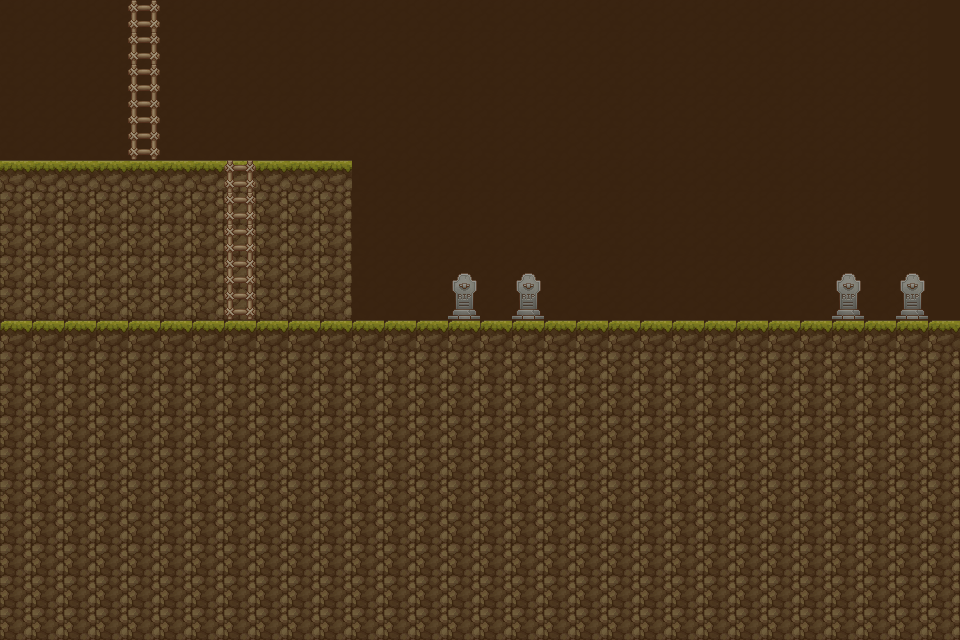
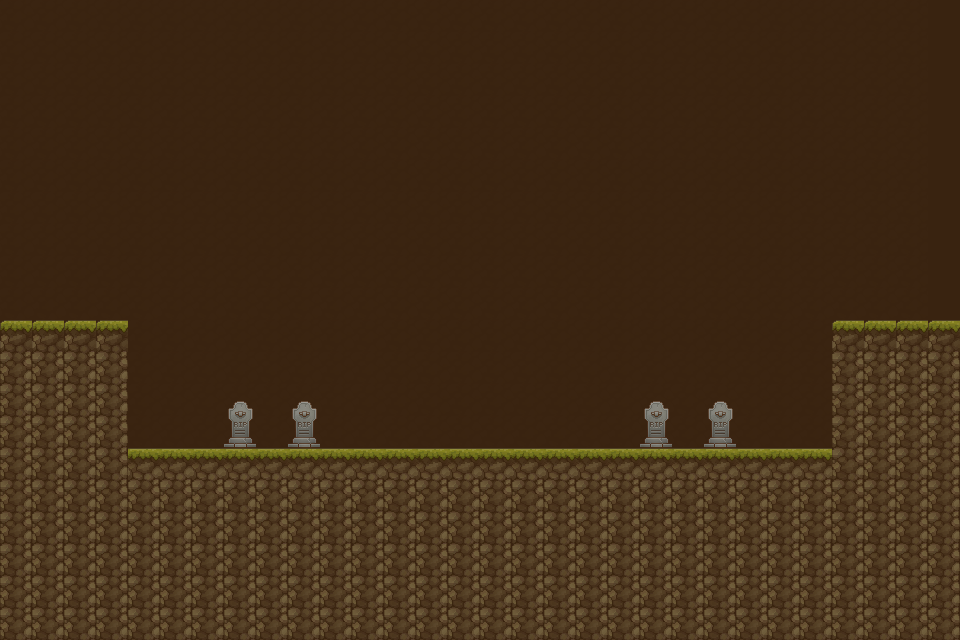
- Minor map design changes

Changed region(s): [[0.0, 0.0, 0.875, 0.7188], [0.9375, 0.4062, 0.9688, 0.5], [0.875, 0.4062, 0.9062, 0.5]]

diff --git a/src/CollisionData.js b/src/CollisionData.js
@@ -8,39 +8,39 @@ const lvl1StartingMapCollisions = [0, 0, 0, 0, 0, 0, 0, 0, 0, 0, 0, 0, 0, 0, 0, 
     0, 0, 0, 0, 0, 0, 0, 0, 0, 0, 0, 0, 0, 0, 0, 0, 0, 0, 0, 0, 0, 0, 0, 0, 0, 0, 0, 0, 0, 0,
     0, 0, 0, 0, 0, 0, 0, 0, 0, 0, 0, 0, 0, 0, 0, 0, 0, 0, 0, 0, 0, 0, 0, 0, 0, 0, 0, 0, 0, 0,
     0, 0, 0, 0, 0, 0, 0, 0, 0, 0, 0, 0, 0, 0, 0, 0, 0, 0, 0, 0, 0, 0, 0, 0, 0, 0, 0, 0, 0, 0,
-    0, 0, 0, 0, 0, 0, 0, 0, 0, 0, 0, 0, 0, 0, 0, 0, 0, 0, 0, 0, 0, 1401, 1401, 1401, 1401, 1401, 0, 1401, 1401, 0,
+    0, 0, 0, 0, 0, 0, 0, 0, 0, 0, 0, 0, 0, 0, 0, 0, 0, 0, 0, 0, 0, 1401, 1401, 1401, 1401, 1401, 1401, 1401, 1401, 0,
     0, 0, 0, 0, 0, 0, 0, 0, 0, 0, 0, 0, 0, 0, 0, 0, 0, 0, 0, 0, 0, 1401, 0, 0, 0, 0, 0, 0, 0, 0,
     0, 0, 0, 0, 0, 0, 0, 0, 0, 0, 0, 0, 0, 0, 0, 0, 0, 0, 0, 0, 0, 1401, 0, 0, 0, 0, 0, 0, 0, 0,
     0, 0, 0, 0, 0, 0, 0, 0, 0, 0, 0, 0, 0, 0, 0, 0, 0, 0, 0, 0, 0, 1401, 0, 0, 0, 0, 0, 0, 0, 0,
     0, 0, 0, 0, 0, 0, 0, 0, 0, 0, 0, 0, 0, 0, 0, 0, 1401, 1401, 1401, 1401, 1401, 1401, 0, 0, 0, 0, 0, 0, 0, 0,
-    0, 0, 1401, 1401, 1401, 1401, 1401, 0, 1401, 0, 0, 0, 0, 0, 0, 0, 0, 0, 0, 0, 0, 0, 0, 0, 0, 0, 0, 0, 0, 0,
+    0, 0, 1401, 1401, 1401, 1401, 1401, 1401, 1401, 0, 0, 0, 0, 0, 0, 0, 0, 0, 0, 0, 0, 0, 0, 0, 0, 0, 0, 0, 0, 0,
     0, 0, 0, 0, 0, 0, 0, 0, 0, 0, 0, 0, 0, 0, 0, 0, 0, 0, 0, 0, 0, 0, 0, 0, 0, 0, 0, 0, 0, 0,
     0, 0, 0, 0, 0, 0, 0, 0, 0, 0, 0, 0, 0, 0, 0, 0, 0, 0, 0, 0, 0, 0, 0, 0, 0, 0, 0, 0, 0, 0,
     0, 0, 0, 0, 0, 0, 0, 0, 0, 0, 0, 0, 0, 0, 0, 0, 0, 0, 0, 0, 0, 0, 0, 0, 0, 0, 0, 0, 0, 0,
-    1401, 1401, 1401, 1401, 0, 0, 1401, 1401, 1401, 1401, 1401, 1401, 1401, 1401, 1401, 1401, 1401, 1401, 1401, 1401, 1401, 1401, 1401, 1401, 1401, 1401, 1401, 1401, 1401, 1401,
+    1401, 1401, 1401, 1401, 1401, 1401, 1401, 1401, 1401, 1401, 1401, 1401, 1401, 1401, 1401, 1401, 1401, 1401, 1401, 1401, 1401, 1401, 1401, 1401, 1401, 1401, 1401, 1401, 1401, 1401,
     0, 0, 0, 0, 0, 0, 0, 0, 0, 0, 0, 0, 0, 0, 0, 0, 0, 0, 0, 0, 0, 0, 0, 0, 0, 0, 0, 0, 0, 0,
     0, 0, 0, 0, 0, 0, 0, 0, 0, 0, 0, 0, 0, 0, 0, 0, 0, 0, 0, 0, 0, 0, 0, 0, 0, 0, 0, 0, 0, 0]
 
-    const lvl1LeftMapCollisions = [0, 0, 1545, 1545, 1545, 1545, 1545, 1545, 1545, 1545, 1545, 1545, 1545, 1545, 1545, 1545, 1545, 1545, 1545, 1545, 1545, 1545, 1545, 1545, 1545, 1545, 1545, 1545, 1545, 1545,
-    0, 0, 1545, 0, 0, 0, 0, 0, 0, 0, 0, 0, 0, 0, 0, 0, 0, 0, 0, 0, 0, 0, 0, 0, 0, 0, 0, 0, 0, 0,
-    0, 0, 1545, 0, 0, 0, 0, 0, 0, 0, 0, 0, 0, 0, 0, 0, 0, 0, 0, 0, 0, 0, 0, 0, 0, 0, 0, 0, 0, 0,
-    0, 0, 1545, 0, 0, 0, 0, 0, 0, 0, 0, 0, 0, 0, 0, 0, 0, 0, 0, 0, 0, 0, 0, 0, 0, 0, 0, 0, 0, 0,
-    0, 0, 1545, 0, 0, 0, 0, 0, 0, 0, 0, 0, 0, 0, 0, 0, 0, 0, 0, 0, 0, 0, 0, 0, 0, 0, 0, 0, 0, 0,
-    0, 0, 1545, 0, 0, 0, 0, 0, 0, 0, 0, 0, 0, 0, 0, 0, 0, 0, 0, 0, 0, 0, 0, 0, 0, 0, 0, 0, 0, 0,
-    0, 0, 1545, 0, 0, 0, 0, 0, 0, 0, 0, 0, 0, 0, 0, 0, 0, 0, 0, 0, 0, 0, 0, 0, 0, 0, 0, 0, 0, 0,
-    0, 0, 1545, 0, 0, 0, 0, 0, 0, 0, 0, 0, 0, 0, 0, 0, 0, 0, 0, 0, 0, 0, 0, 0, 0, 0, 0, 0, 0, 0,
-    0, 0, 1545, 0, 0, 0, 0, 0, 0, 0, 0, 0, 0, 0, 0, 0, 0, 0, 0, 0, 0, 0, 0, 0, 0, 0, 0, 0, 0, 0,
-    0, 0, 1545, 0, 0, 0, 0, 0, 0, 0, 0, 0, 0, 0, 0, 0, 0, 0, 0, 0, 0, 0, 0, 0, 0, 0, 0, 0, 0, 0,
-    0, 0, 1545, 0, 0, 0, 0, 0, 0, 0, 0, 0, 0, 0, 0, 0, 0, 0, 0, 0, 0, 0, 0, 0, 0, 0, 0, 0, 0, 0,
-    0, 1545, 1545, 0, 0, 0, 0, 0, 0, 0, 0, 0, 0, 0, 0, 0, 0, 0, 0, 0, 0, 0, 0, 0, 0, 0, 0, 0, 0, 0,
-    1545, 1545, 0, 0, 0, 0, 0, 0, 0, 0, 0, 0, 0, 0, 0, 0, 0, 0, 0, 0, 0, 0, 0, 0, 0, 0, 0, 0, 0, 0,
-    1545, 0, 0, 0, 0, 0, 0, 0, 0, 0, 0, 0, 0, 0, 0, 0, 0, 0, 0, 0, 0, 0, 0, 0, 0, 0, 0, 0, 0, 0,
-    1545, 0, 0, 0, 0, 0, 0, 0, 0, 0, 0, 0, 0, 0, 0, 0, 0, 0, 0, 0, 0, 0, 0, 0, 0, 0, 0, 0, 0, 0,
-    1545, 0, 0, 0, 0, 0, 0, 0, 0, 0, 0, 0, 0, 0, 0, 0, 0, 0, 0, 0, 0, 0, 0, 0, 0, 0, 0, 0, 0, 0,
-    1545, 0, 0, 0, 0, 0, 0, 0, 0, 0, 0, 0, 0, 0, 0, 0, 0, 0, 0, 0, 0, 0, 0, 0, 0, 0, 0, 0, 0, 0,
-    1545, 1545, 1545, 1545, 1545, 1545, 1545, 1545, 1545, 1545, 1545, 1545, 1545, 1545, 1545, 1545, 1545, 1545, 1545, 1545, 1545, 1545, 1545, 1545, 1545, 1545, 1545, 1545, 1545, 1545,
-    0, 0, 0, 0, 0, 0, 0, 0, 0, 0, 0, 0, 0, 0, 0, 0, 0, 0, 0, 0, 0, 0, 0, 0, 0, 0, 0, 0, 0, 0,
-    0, 0, 0, 0, 0, 0, 0, 0, 0, 0, 0, 0, 0, 0, 0, 0, 0, 0, 0, 0, 0, 0, 0, 0, 0, 0, 0, 0, 0, 0]
+const lvl1LeftMapCollisions = [0, 0, 1545, 1545, 1545, 1545, 1545, 1545, 1545, 1545, 1545, 1545, 1545, 1545, 1545, 1545, 1545, 1545, 1545, 1545, 1545, 1545, 1545, 1545, 1545, 1545, 1545, 1545, 1545, 1545,
+0, 0, 1545, 0, 0, 0, 0, 0, 0, 0, 0, 0, 0, 0, 0, 0, 0, 0, 0, 0, 0, 0, 0, 0, 0, 0, 0, 0, 0, 0,
+0, 0, 1545, 0, 0, 0, 0, 0, 0, 0, 0, 0, 0, 0, 0, 0, 0, 0, 0, 0, 0, 0, 0, 0, 0, 0, 0, 0, 0, 0,
+0, 0, 1545, 0, 0, 0, 0, 0, 0, 0, 0, 0, 0, 0, 0, 0, 0, 0, 0, 0, 0, 0, 0, 0, 0, 0, 0, 0, 0, 0,
+0, 0, 1545, 0, 0, 0, 0, 0, 0, 0, 0, 0, 0, 0, 0, 0, 0, 0, 0, 0, 0, 0, 0, 0, 0, 0, 0, 0, 0, 0,
+0, 0, 1545, 0, 0, 0, 0, 0, 0, 0, 0, 0, 0, 0, 0, 0, 0, 0, 0, 0, 0, 0, 0, 0, 0, 0, 0, 0, 0, 0,
+0, 0, 1545, 0, 0, 0, 0, 0, 0, 0, 0, 0, 0, 0, 0, 0, 0, 0, 0, 0, 0, 0, 0, 0, 0, 0, 0, 0, 0, 0,
+0, 0, 1545, 0, 0, 0, 0, 0, 0, 0, 0, 0, 0, 0, 0, 0, 0, 0, 0, 0, 0, 0, 0, 0, 0, 0, 0, 0, 0, 0,
+0, 0, 1545, 0, 0, 0, 0, 0, 0, 0, 0, 0, 0, 0, 0, 0, 0, 0, 0, 0, 0, 0, 0, 0, 0, 0, 0, 0, 0, 0,
+0, 0, 1545, 0, 0, 0, 0, 0, 0, 0, 0, 0, 0, 0, 0, 0, 0, 0, 0, 0, 0, 0, 0, 0, 0, 0, 0, 0, 0, 0,
+0, 0, 1545, 0, 0, 0, 0, 0, 0, 0, 0, 0, 0, 0, 0, 0, 0, 0, 0, 0, 0, 0, 0, 0, 0, 0, 0, 0, 0, 0,
+0, 1545, 1545, 0, 0, 0, 0, 0, 0, 0, 0, 0, 0, 0, 0, 0, 0, 0, 0, 0, 0, 0, 0, 0, 0, 0, 0, 0, 0, 0,
+1545, 1545, 0, 0, 0, 0, 0, 0, 0, 0, 0, 0, 0, 0, 0, 0, 0, 0, 0, 0, 0, 0, 0, 0, 0, 0, 0, 0, 0, 0,
+1545, 0, 0, 0, 0, 0, 0, 0, 0, 0, 0, 0, 0, 0, 0, 0, 0, 0, 0, 0, 0, 0, 0, 0, 0, 0, 0, 0, 0, 0,
+1545, 0, 0, 0, 0, 0, 0, 0, 0, 0, 0, 0, 0, 0, 0, 0, 0, 0, 0, 0, 0, 0, 0, 0, 0, 0, 0, 0, 0, 0,
+1545, 0, 0, 0, 0, 0, 0, 0, 0, 0, 0, 0, 0, 0, 0, 0, 0, 0, 0, 0, 0, 0, 0, 0, 0, 0, 0, 0, 0, 0,
+1545, 0, 0, 0, 0, 0, 0, 0, 0, 0, 0, 0, 0, 0, 0, 0, 0, 0, 0, 0, 0, 0, 0, 0, 0, 0, 0, 0, 0, 0,
+1545, 1545, 1545, 1545, 1545, 1545, 1545, 1545, 1545, 1545, 1545, 1545, 1545, 1545, 1545, 1545, 1545, 1545, 1545, 1545, 1545, 1545, 1545, 1545, 1545, 1545, 1545, 1545, 1545, 1545,
+0, 0, 0, 0, 0, 0, 0, 0, 0, 0, 0, 0, 0, 0, 0, 0, 0, 0, 0, 0, 0, 0, 0, 0, 0, 0, 0, 0, 0, 0,
+0, 0, 0, 0, 0, 0, 0, 0, 0, 0, 0, 0, 0, 0, 0, 0, 0, 0, 0, 0, 0, 0, 0, 0, 0, 0, 0, 0, 0, 0]
 
 const lvl1RightMapCollisions = [377, 377, 377, 377, 377, 377, 377, 377, 377, 377, 377, 377, 377, 377, 377, 377, 377, 377, 377, 377, 377, 377, 377, 377, 377, 377, 377, 377, 377, 0,
     0, 0, 0, 0, 0, 0, 0, 0, 0, 0, 0, 0, 0, 0, 0, 0, 0, 0, 0, 0, 0, 0, 0, 0, 0, 0, 0, 0, 377, 0,
@@ -63,21 +63,21 @@ const lvl1RightMapCollisions = [377, 377, 377, 377, 377, 377, 377, 377, 377, 377
     0, 0, 0, 0, 0, 0, 0, 0, 0, 0, 0, 0, 0, 0, 0, 0, 0, 0, 0, 0, 0, 0, 0, 0, 0, 0, 0, 0, 0, 0,
     0, 0, 0, 0, 0, 0, 0, 0, 0, 0, 0, 0, 0, 0, 0, 0, 0, 0, 0, 0, 0, 0, 0, 0, 0, 0, 0, 0, 0, 0]
 
-const lvl1BottomMapCollisions = [1281, 1281, 1281, 0, 0, 0, 1281, 1281, 1281, 1281, 1281, 1281, 1281, 1281, 1281, 1281, 1281, 1281, 1281, 1281, 1281, 1281, 1281, 1281, 1281, 1281, 1281, 1281, 1281, 1281,
+const lvl1BossMapCollisions = [1281, 1281, 1281, 1281, 1281, 1281, 1281, 1281, 1281, 1281, 1281, 1281, 1281, 1281, 1281, 1281, 1281, 1281, 1281, 1281, 1281, 1281, 1281, 1281, 1281, 1281, 1281, 1281, 1281, 1281,
     1281, 0, 0, 0, 0, 0, 0, 0, 0, 0, 0, 0, 0, 0, 0, 0, 0, 0, 0, 0, 0, 0, 0, 0, 0, 0, 0, 0, 0, 1281,
     1281, 0, 0, 0, 0, 0, 0, 0, 0, 0, 0, 0, 0, 0, 0, 0, 0, 0, 0, 0, 0, 0, 0, 0, 0, 0, 0, 0, 0, 1281,
     1281, 0, 0, 0, 0, 0, 0, 0, 0, 0, 0, 0, 0, 0, 0, 0, 0, 0, 0, 0, 0, 0, 0, 0, 0, 0, 0, 0, 0, 1281,
     1281, 0, 0, 0, 0, 0, 0, 0, 0, 0, 0, 0, 0, 0, 0, 0, 0, 0, 0, 0, 0, 0, 0, 0, 0, 0, 0, 0, 0, 1281,
-    1281, 1281, 1281, 1281, 1281, 1281, 1281, 0, 1281, 1281, 1281, 0, 0, 0, 0, 0, 0, 0, 0, 0, 0, 0, 0, 0, 0, 0, 0, 0, 0, 1281,
     1281, 0, 0, 0, 0, 0, 0, 0, 0, 0, 0, 0, 0, 0, 0, 0, 0, 0, 0, 0, 0, 0, 0, 0, 0, 0, 0, 0, 0, 1281,
     1281, 0, 0, 0, 0, 0, 0, 0, 0, 0, 0, 0, 0, 0, 0, 0, 0, 0, 0, 0, 0, 0, 0, 0, 0, 0, 0, 0, 0, 1281,
     1281, 0, 0, 0, 0, 0, 0, 0, 0, 0, 0, 0, 0, 0, 0, 0, 0, 0, 0, 0, 0, 0, 0, 0, 0, 0, 0, 0, 0, 1281,
     1281, 0, 0, 0, 0, 0, 0, 0, 0, 0, 0, 0, 0, 0, 0, 0, 0, 0, 0, 0, 0, 0, 0, 0, 0, 0, 0, 0, 0, 1281,
-    1281, 1281, 1281, 1281, 1281, 1281, 1281, 1281, 1281, 1281, 1281, 1281, 1281, 1281, 1281, 1281, 1281, 1281, 1281, 1281, 1281, 1281, 1281, 1281, 1281, 1281, 1281, 1281, 1281, 1281,
-    0, 0, 0, 0, 0, 0, 0, 0, 0, 0, 0, 0, 0, 0, 0, 0, 0, 0, 0, 0, 0, 0, 0, 0, 0, 0, 0, 0, 0, 0,
-    0, 0, 0, 0, 0, 0, 0, 0, 0, 0, 0, 0, 0, 0, 0, 0, 0, 0, 0, 0, 0, 0, 0, 0, 0, 0, 0, 0, 0, 0,
-    0, 0, 0, 0, 0, 0, 0, 0, 0, 0, 0, 0, 0, 0, 0, 0, 0, 0, 0, 0, 0, 0, 0, 0, 0, 0, 0, 0, 0, 0,
-    0, 0, 0, 0, 0, 0, 0, 0, 0, 0, 0, 0, 0, 0, 0, 0, 0, 0, 0, 0, 0, 0, 0, 0, 0, 0, 0, 0, 0, 0,
+    1281, 0, 0, 0, 0, 0, 0, 0, 0, 0, 0, 0, 0, 0, 0, 0, 0, 0, 0, 0, 0, 0, 0, 0, 0, 0, 0, 0, 0, 1281,
+    1281, 1281, 1281, 1281, 0, 0, 0, 0, 0, 0, 0, 0, 0, 0, 0, 0, 0, 0, 0, 0, 0, 0, 0, 0, 0, 0, 1281, 1281, 1281, 1281,
+    0, 0, 0, 1281, 0, 0, 0, 0, 0, 0, 0, 0, 0, 0, 0, 0, 0, 0, 0, 0, 0, 0, 0, 0, 0, 0, 1281, 0, 0, 0,
+    0, 0, 0, 1281, 0, 0, 0, 0, 0, 0, 0, 0, 0, 0, 0, 0, 0, 0, 0, 0, 0, 0, 0, 0, 0, 0, 1281, 0, 0, 0,
+    0, 0, 0, 1281, 0, 0, 0, 0, 0, 0, 0, 0, 0, 0, 0, 0, 0, 0, 0, 0, 0, 0, 0, 0, 0, 0, 1281, 0, 0, 0,
+    0, 0, 0, 1281, 1281, 1281, 1281, 1281, 1281, 1281, 1281, 1281, 1281, 1281, 1281, 1281, 1281, 1281, 1281, 1281, 1281, 1281, 1281, 1281, 1281, 1281, 1281, 0, 0, 0,
     0, 0, 0, 0, 0, 0, 0, 0, 0, 0, 0, 0, 0, 0, 0, 0, 0, 0, 0, 0, 0, 0, 0, 0, 0, 0, 0, 0, 0, 0,
     0, 0, 0, 0, 0, 0, 0, 0, 0, 0, 0, 0, 0, 0, 0, 0, 0, 0, 0, 0, 0, 0, 0, 0, 0, 0, 0, 0, 0, 0,
     0, 0, 0, 0, 0, 0, 0, 0, 0, 0, 0, 0, 0, 0, 0, 0, 0, 0, 0, 0, 0, 0, 0, 0, 0, 0, 0, 0, 0, 0,
@@ -88,5 +88,5 @@ export let collisions = {
     lvl1StartMapCollisions: extractCollisions(lvl1StartingMapCollisions, 1401),
     lvl1LeftMapCollisions: extractCollisions(lvl1LeftMapCollisions, 1545),
     lvl1RightMapCollisions: extractCollisions(lvl1RightMapCollisions, 377),
-    lvl1BottomMapCollisions: extractCollisions(lvl1BottomMapCollisions, 1281)
+    lvl1BossMapCollisions: extractCollisions(lvl1BossMapCollisions, 1281)
 }
